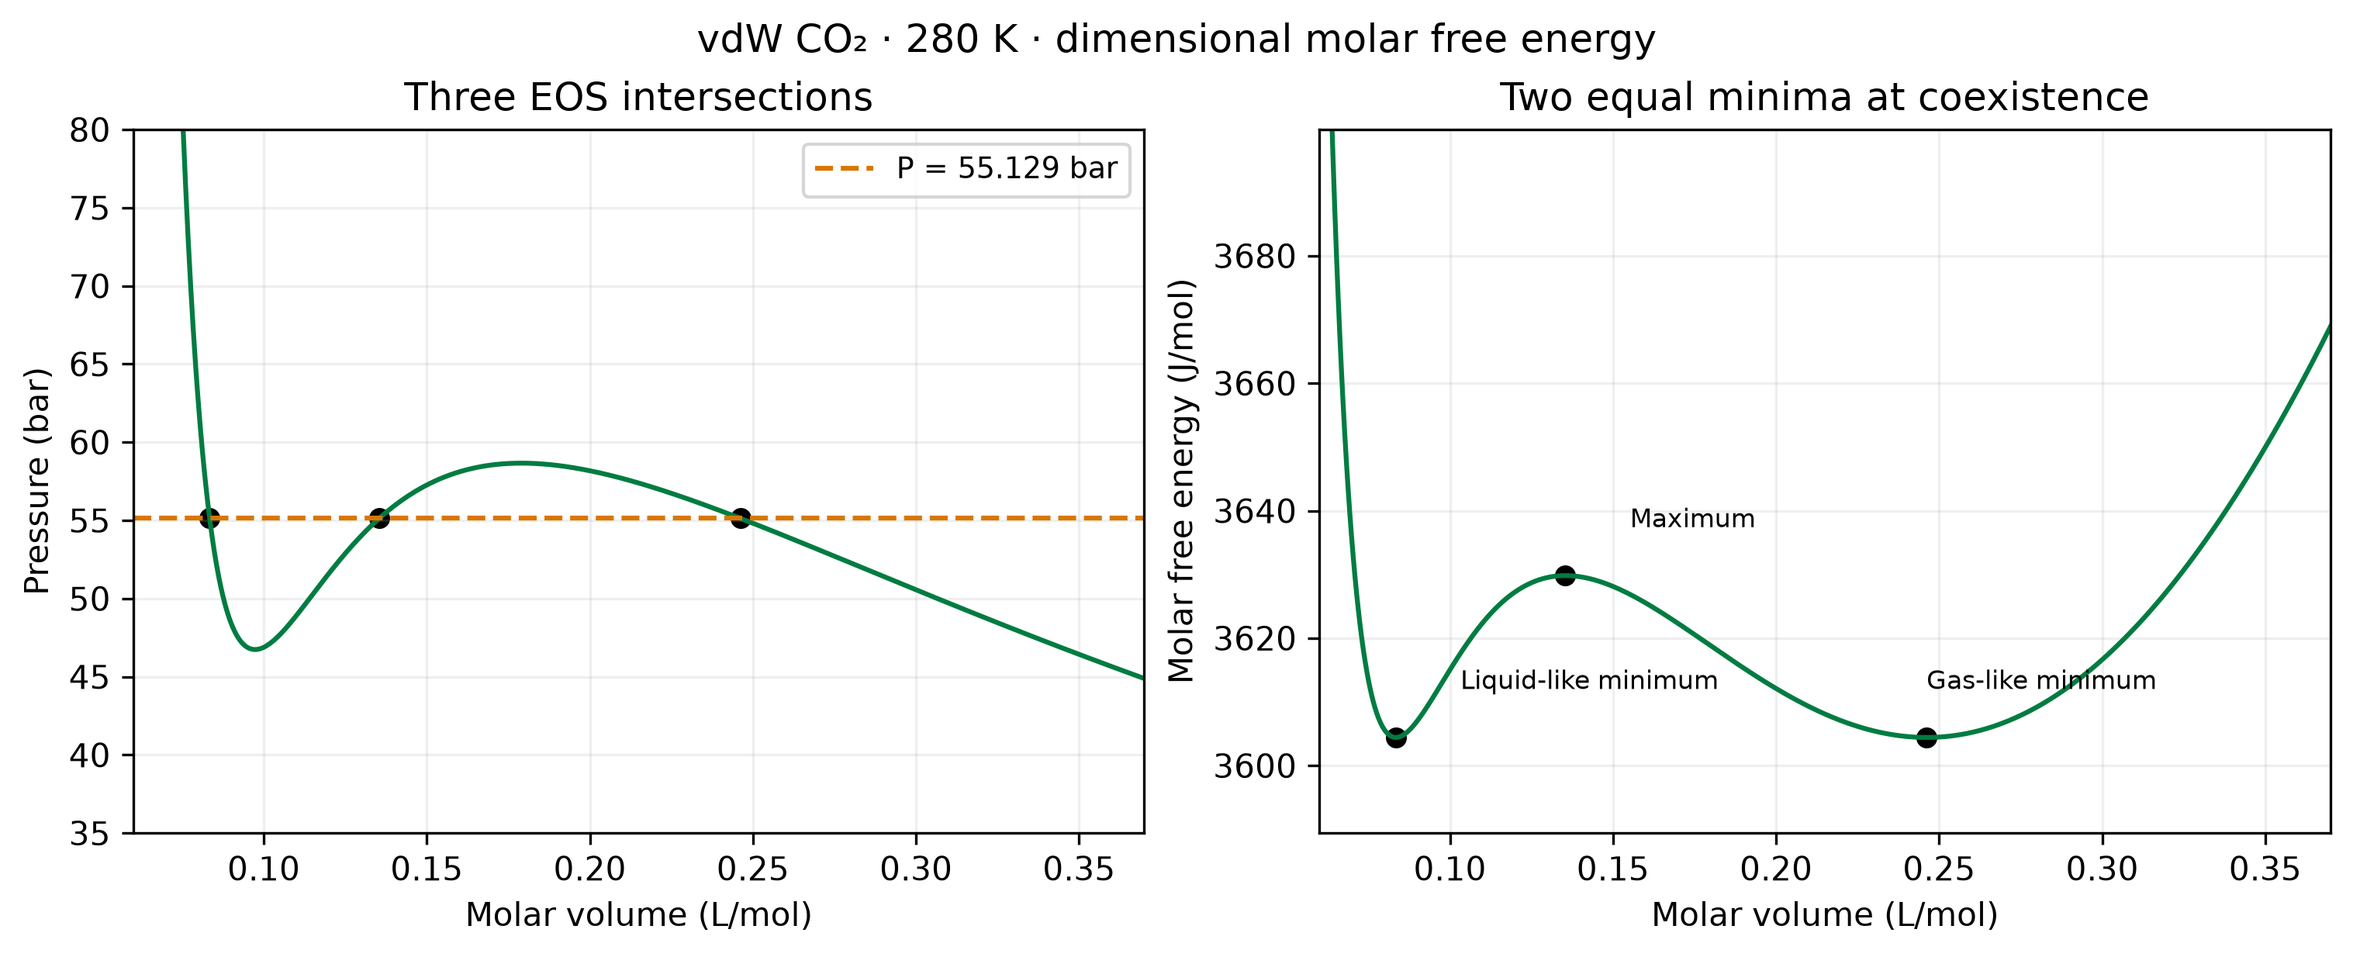
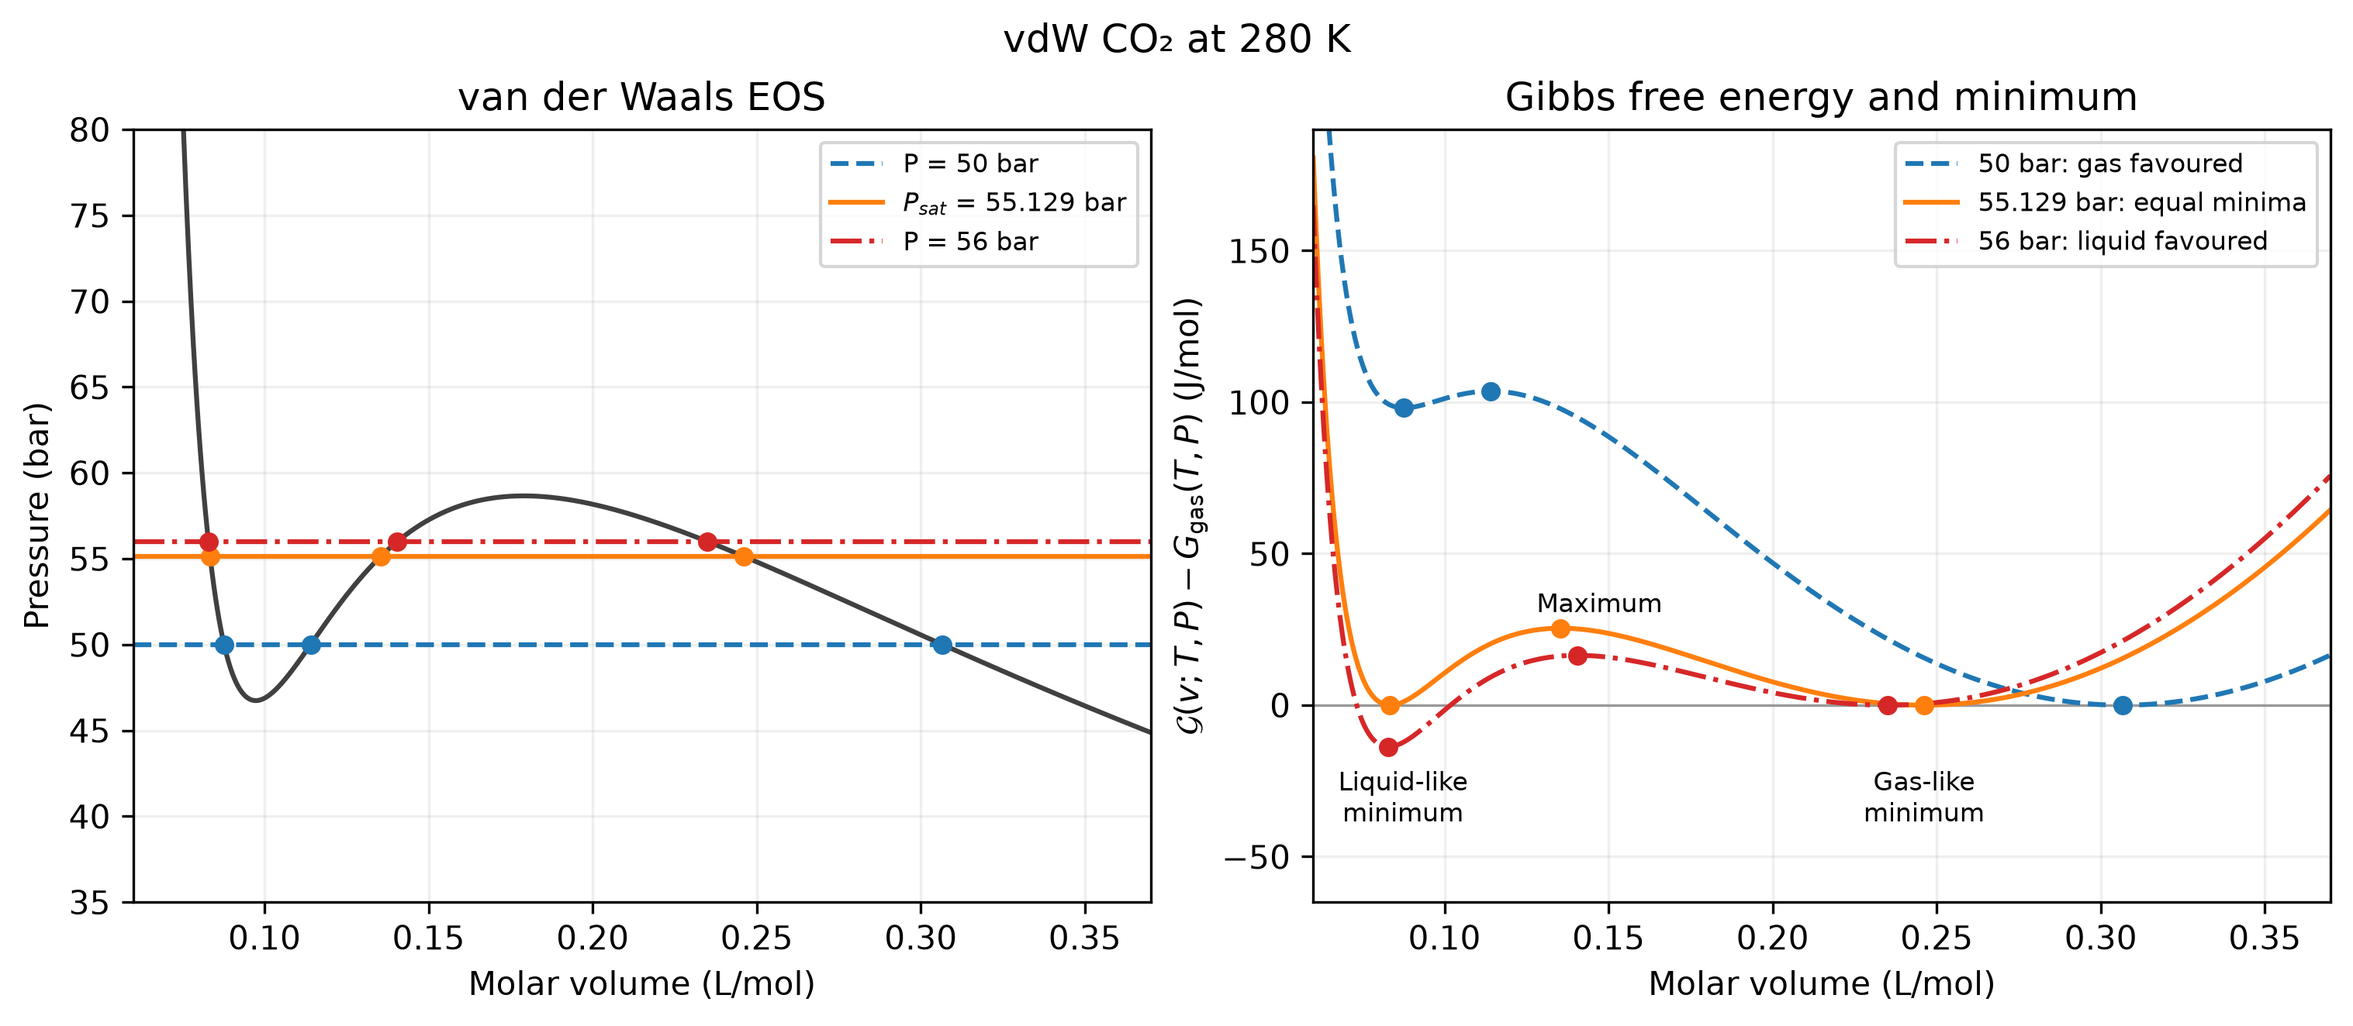
Refine L07 notes, optimization figures, and phase-equilibrium demo

diff --git a/activities/l07_co2_free_energy.edit.py b/activities/l07_co2_free_energy.edit.py
@@ -23,13 +23,7 @@ def course_imports():
 def energy_question(mo):
     mo.md(r"""
     ## L07 · Which CO₂ state has the lower free energy?
-    **Predict:** at 280 K, will raising the pressure favour the smaller-volume or larger-volume minimum?
-
-    Use molar volume $v$ and the dimensional vdW free-energy landscape
-    $\mathcal G(v;T,P)=-RT\ln[(v-b)/v_{
-    m ref}]-a/v+Pv$.
-    Here $a=0.3592$ Pa m⁶ mol⁻², $b=4.267	imes10^{-5}$ m³ mol⁻¹, and $v_{
-    m ref}=10^{-3}$ m³ mol⁻¹. The temperature-only constant is set to zero; it cancels when comparing phases at the same T and P. Plots use L/mol, bar, and J/mol.
+    **Predict:** pick a temperature. Can you move the pressure so that the two free-energy minima are balanced?
     """)
     return
 
@@ -55,6 +49,13 @@ def energy_model(brentq, np):
         # Independent reference: solve the cubic implied by the EOS.
         candidates = np.roots([pressure, -(pressure*0.04267+0.08314462618*temperature), 3.592, -3.592*0.04267])
         return np.sort([z.real for z in candidates if abs(z.imag) < 1e-8 and z.real > 0.04267])
+
+
+    def co2_relative_energy(volume, temperature, pressure):
+        # Use the gas-like minimum as zero in the two-well region.
+        # With one minimum, use that sole minimum as the reference.
+        reference_volume = co2_volumes(temperature, pressure)[-1]
+        return co2_energy(volume, temperature, pressure) - co2_energy(reference_volume, temperature, pressure)
 
 
     def co2_saturation(temperature):
@@ -83,6 +84,8 @@ def energy_model(brentq, np):
         co2_phase_P,
         co2_phase_T,
         co2_pressure,
+        co2_relative_energy,
+        co2_saturation,
         co2_slope,
         co2_volumes,
     )
@@ -91,9 +94,9 @@ def energy_model(brentq, np):
 @app.cell(hide_code=True)
 def energy_controls(mo):
     energy_T = mo.ui.slider(250, 330, step=1, value=280, label="Temperature (K)", show_value=True, debounce=True)
-    energy_P = mo.ui.slider(10, 100, step=0.5, value=50, label="Pressure (bar)", show_value=True, debounce=True)
-    energy_method = mo.ui.dropdown(["Bounded: each well", "Newton: stationary point"], value="Bounded: each well", label="Solver")
-    energy_guess = mo.ui.number(0.05, 3.0, step=0.01, value=0.30, label="Newton starting volume (L/mol)")
+    energy_P = mo.ui.slider(10, 100, step=0.01, value=50, label="Pressure (bar)", show_value=True, debounce=True)
+    energy_method = mo.ui.dropdown(["Bounded: each well", "Newton–Raphson: stationary point"], value="Bounded: each well", label="Solver")
+    energy_guess = mo.ui.number(0.05, 3.0, step=0.01, value=0.30, label="Newton–Raphson starting volume (L/mol)")
     mo.vstack([mo.hstack([energy_T, energy_P], widths="equal"), mo.hstack([energy_method, energy_guess], wrap=True)])
     return energy_P, energy_T, energy_guess, energy_method
 
@@ -125,7 +128,7 @@ def energy_solver(
                 rows.append(dict(volume=result.x, energy=float(result.fun), iterations=int(result.nit), calls=int(result.nfev), success=bool(result.success)))
             message = "Each interval contains one well; the middle stationary volume splits the two-well case."
         else:
-            # Transparent Newton update on dG/dV = 100(P_external − P_EOS).
+            # Transparent Newton–Raphson update on dG/dv = 100(P_external − P_EOS).
             volume = float(guess)
             success = False
             message = "Iteration limit"
@@ -136,7 +139,7 @@ def energy_solver(
                     break
                 trial = volume + (pressure-co2_pressure(volume, temperature))/slope
                 if not np.isfinite(trial) or trial <= 0.04267:
-                    message = "Stopped: Newton step left the physical domain"
+                    message = "Stopped: Newton–Raphson step left the physical domain"
                     break
                 small_step = abs(trial-volume) <= 1e-8
                 volume = trial
@@ -153,17 +156,17 @@ def energy_solver(
 
 
     energy_stationary, energy_rows, energy_message = solve_co2_minima(energy_T.value, energy_P.value, energy_method.value, energy_guess.value)
-    return energy_message, energy_rows, energy_stationary
+    return energy_message, energy_rows, energy_stationary, solve_co2_minima
 
 
 @app.cell(hide_code=True)
 def energy_plot(
     co2_Pc,
     co2_Tc,
-    co2_energy,
     co2_phase_P,
     co2_phase_T,
     co2_pressure,
+    co2_relative_energy,
     energy_P,
     energy_T,
     energy_message,
@@ -174,48 +177,84 @@ def energy_plot(
     plt,
 ):
     def draw_co2_landscape(temperature, pressure, stationary, rows):
-        upper = max(0.65, 1.35*stationary[-1])
+        upper = max(0.35, 1.35*stationary[-1])
         volumes = np.linspace(0.050, upper, 1800)
-        fig, axes = plt.subplots(1, 3, figsize=(12, 3.8), layout="constrained", gridspec_kw={"width_ratios":[1,1.2,1]})
-        axes[0].plot(volumes, co2_pressure(volumes,temperature), color="#007c41")
-        axes[0].axhline(pressure, color="#d87700", ls="--")
-        axes[0].scatter(stationary, np.full(len(stationary), pressure), color="black", s=24)
-        axes[0].set(xlabel="Molar volume (L/mol)", ylabel="Pressure (bar)", ylim=(0,110), title="EOS: possible volumes")
-        axes[1].plot(volumes, co2_energy(volumes,temperature,pressure), color="#007c41")
-        axes[1].scatter(stationary, co2_energy(stationary,temperature,pressure), color="black", s=25, label="Stationary reference")
-        for row in rows:
-            axes[1].scatter([row["volume"]], [row["energy"]], marker="x", color="#d87700", s=65)
-        energy_values = co2_energy(stationary,temperature,pressure)
-        axes[1].set(xlabel="Molar volume (L/mol)", ylabel="Molar free energy (J/mol)", title="Lower minimum is favoured", ylim=(min(energy_values)-30, max(energy_values)+250))
-        axes[1].legend(fontsize=7)
-        axes[2].plot(co2_phase_T, co2_phase_P, color="#007c41", label="Equal-minimum pressure")
-        axes[2].scatter([co2_Tc], [co2_Pc], color="black", label="vdW critical point", s=25)
-        axes[2].scatter([temperature], [pressure], color="#d87700", s=65, label="Your T, P")
-        axes[2].set(xlabel="Temperature (K)", ylabel="Pressure (bar)", xlim=(250,330), ylim=(10,100), title="vdW CO₂ liquid–gas boundary")
-        axes[2].legend(fontsize=7)
-        for ax in axes:
+        fig = plt.figure(figsize=(10, 7.8), layout="constrained")
+        grid = fig.add_gridspec(2, 2, height_ratios=[1, 1.1])
+        eos = fig.add_subplot(grid[0, 0])
+        gibbs = fig.add_subplot(grid[0, 1])
+        phase = fig.add_subplot(grid[1, :])
+
+        eos.plot(volumes, co2_pressure(volumes, temperature), color="#1f77b4")
+        eos.axhline(pressure, color="0.3", ls="--", label=f"P = {pressure:.2f} bar")
+        eos.scatter(stationary, np.full(len(stationary), pressure), color="black", s=24)
+        eos.set(xlabel="Molar volume (L/mol)", ylabel="Pressure (bar)",
+                xlim=(0.050, upper), ylim=(0, 110), title="van der Waals EOS")
+        eos.legend(fontsize=8)
+
+        energy_values = co2_relative_energy(stationary, temperature, pressure)
+        gibbs.plot(volumes, co2_relative_energy(volumes, temperature, pressure), color="#ff7f0e")
+        gibbs.axhline(0, color="0.6", lw=0.8)
+        gibbs.scatter(stationary, energy_values, color="black", s=25, label="Stationary reference")
+        for index, row in enumerate(rows):
+            gibbs.scatter(row["volume"], co2_relative_energy(row["volume"], temperature, pressure),
+                          marker="x", color="#d62728", s=65, zorder=4,
+                          label="Solver result" if index == 0 else None)
+        reference = r"G_{\mathrm{gas}}" if len(stationary) == 3 else r"G_{\mathrm{min}}"
+        gibbs.set(xlabel="Molar volume (L/mol)",
+                  ylabel=rf"$\mathcal{{G}}(v;T,P)-{reference}(T,P)$ (J/mol)",
+                  xlim=(0.050, upper), ylim=(min(energy_values)-30, max(energy_values)+80),
+                  title="Gibbs free energy and minimum")
+        gibbs.legend(fontsize=8)
+
+        boundary_T = np.append(co2_phase_T, co2_Tc)
+        boundary_P = np.append(co2_phase_P, co2_Pc)
+        phase.fill_between(boundary_T, 10, boundary_P, color="#1f77b4", alpha=0.14)
+        phase.fill_between(boundary_T, boundary_P, 100, color="#ff7f0e", alpha=0.14)
+        phase.fill_between([co2_Tc, 330], 10, co2_Pc, color="#1f77b4", alpha=0.14)
+        phase.fill_between([co2_Tc, 330], co2_Pc, 100, color="#d62728", alpha=0.12)
+        phase.plot(boundary_T, boundary_P, color="#d62728", lw=2, label="Liquid–gas coexistence")
+        # Dotted guides mark the supercritical quadrant, not phase boundaries.
+        phase.plot([co2_Tc, co2_Tc, 330], [100, co2_Pc, co2_Pc], color="0.5", ls=":", lw=1)
+        phase.scatter(co2_Tc, co2_Pc, color="black", label="vdW critical point", s=30, zorder=4)
+        phase.scatter(temperature, pressure, color="white", edgecolor="black", marker="*",
+                      s=170, linewidth=1.2, label="Your T, P", zorder=5)
+        phase.text(261, 65, "Liquid", color="#a84b00", fontsize=12, ha="center")
+        phase.text(291, 23, "Gas", color="#165783", fontsize=12, ha="center")
+        phase.text(315, 87, "Supercritical\n$T>T_c$, $P>P_c$", color="#a31d1e", fontsize=11, ha="center")
+        phase.set(xlabel="Temperature (K)", ylabel="Pressure (bar)",
+                  xlim=(250, 330), ylim=(10, 100), title="Phase diagram")
+        phase.legend(fontsize=8, loc="upper left")
+        for ax in (eos, gibbs, phase):
             ax.grid(alpha=0.2)
+        fig.suptitle(f"vdW CO₂ at {temperature:g} K")
         return fig
 
 
     energy_figure = draw_co2_landscape(energy_T.value, energy_P.value, energy_stationary, energy_rows)
     energy_report = "\n".join(
-        f"- V = **{r['volume']:.7f} L/mol**, G = **{r['energy']:.3f} J/mol**; {r['kind']}; "
-        f"solver success: **{r['success']}**; pressure residual **{r['pressure_residual']:+.2g} bar**; **{r['iterations']} iterations**."
-        for r in energy_rows)
+        f"- v = **{row['volume']:.7f} L/mol**, relative G = **{co2_relative_energy(row['volume'], energy_T.value, energy_P.value):.3f} J/mol**; {row['kind']}; "
+        f"solver success: **{row['success']}**; pressure residual **{row['pressure_residual']:+.2g} bar**; **{row['iterations']} iterations**."
+        for row in energy_rows)
     if len(energy_stationary) == 3:
-        energy_difference = float(co2_energy(energy_stationary[0],energy_T.value,energy_P.value)-co2_energy(energy_stationary[-1],energy_T.value,energy_P.value))
-        energy_interpretation = f"G(small-volume) − G(large-volume) = **{energy_difference:+.3f} J/mol**. " + ("The small-volume minimum is lower." if energy_difference < 0 else "The large-volume minimum is lower.")
+        energy_difference = float(co2_relative_energy(energy_stationary[0], energy_T.value, energy_P.value))
+        if abs(energy_difference) <= 0.1:
+            energy_preference = "The minima are balanced to within 0.1 J/mol."
+        elif energy_difference < 0:
+            energy_preference = "The small-volume minimum is lower."
+        else:
+            energy_preference = "The large-volume minimum is lower."
+        energy_interpretation = f"G(liquid) − G(gas) = **{energy_difference:+.3f} J/mol**. " + energy_preference
     else:
-        energy_interpretation = "There is one stationary volume at these conditions. A single minimum can occur below Tc too, outside the three-root pressure range."
+        energy_interpretation = "There is one minimum, used as the energy zero. A single minimum can occur below Tc too, outside the three-root pressure range."
     mo.vstack([
         energy_figure,
         mo.md(energy_report + "\n\n" + energy_interpretation + "\n\n" + energy_message),
         mo.accordion({"What should I check?": mo.md(
-            "At **280 K**, compare **50** and **56 bar**. Try Newton at **0.11 L/mol**: can a successful root solve find a maximum? Raise T to **310 K** and vary P. Compare the two minima only at the same T and P. The plotted boundary is calculated from this vdW CO₂ model; quantitative comparison with measured CO₂ needs validation.\n\n"
-            "A minimum with higher free energy is metastable in the homogeneous model. The intervening maximum signals an unstable volume; predicting a nucleation rate also requires interfacial physics. Newton evaluates pressure and its derivative each iteration; the bounded solver evaluates free energy, so iteration counts measure different work." )}),
+            "The gas-like minimum sets the energy zero when two wells exist, just as in the lecture figure. At **280 K**, compare **50** and **56 bar**. Try Newton–Raphson at **0.11 L/mol**: can a successful root solve find a maximum? Raise T to **310 K** and vary P. Compare the two minima only at the same T and P.\n\n"
+            "A minimum with higher free energy is metastable in the homogeneous model. The intervening maximum signals an unstable volume; predicting a nucleation rate also requires interfacial physics. Newton–Raphson evaluates pressure and its derivative each iteration; the bounded solver evaluates free energy, so iteration counts measure different work." )}),
     ])
-    return
+    return draw_co2_landscape, energy_figure
 
 
 if __name__ == "__main__":

diff --git a/scripts/l06_l07_figures.py b/scripts/l06_l07_figures.py
@@ -235,6 +235,80 @@ def save_fixed_point_figure():
     save(fig, "L06-fixed-point.png")
 
 
+def save_vdw_energy_figure(energy):
+    """Keep the EOS connection and show pressure selecting the deeper well."""
+    temperature = 280.0
+    saturation = energy["co2_saturation"](temperature)
+    vv = np.linspace(0.06, 0.37, 1200)
+    fig, axes = plt.subplots(1, 2, figsize=(10, 4.3), layout="constrained")
+    axes[0].plot(vv, energy["co2_pressure"](vv, temperature), color="0.25")
+    axes[0].set(ylabel="Pressure (bar)", ylim=(35, 80), title="van der Waals EOS")
+
+    axes[1].axhline(0, color="0.6", lw=0.8)
+    for pressure, colour, style, label in [
+        (50.0, "#1f77b4", "--", "50 bar: gas favoured"),
+        (saturation, "#ff7f0e", "-", f"{saturation:.3f} bar: equal minima"),
+        (56.0, "#d62728", "-.", "56 bar: liquid favoured"),
+    ]:
+        volumes = energy["co2_volumes"](temperature, pressure)
+        pressure_label = f"$P_{{sat}}$ = {pressure:.3f} bar" if pressure == saturation else f"P = {pressure:g} bar"
+        axes[0].axhline(pressure, color=colour, ls=style, label=pressure_label)
+        axes[0].scatter(volumes, np.full(len(volumes), pressure), color=colour, s=25, zorder=3)
+        relative_energy = energy["co2_relative_energy"](vv, temperature, pressure)
+        values = energy["co2_relative_energy"](volumes, temperature, pressure)
+        axes[1].plot(vv, relative_energy, color=colour, ls=style, label=label)
+        axes[1].scatter(volumes, values, color=colour, s=25, zorder=3)
+        if pressure == saturation:
+            for volume, value, name, offset in zip(
+                volumes, values,
+                ["Liquid-like\nminimum", "Maximum", "Gas-like\nminimum"],
+                [(4, -36), (12, 5), (0, -36)],
+            ):
+                axes[1].annotate(name, (volume, value), xytext=offset,
+                                 textcoords="offset points", fontsize=8, ha="center")
+    axes[1].set(ylabel=r"$\mathcal{G}(v;T,P)-G_{\mathrm{gas}}(T,P)$ (J/mol)",
+                ylim=(-65, 190), title="Gibbs free energy and minimum")
+    axes[0].legend(fontsize=8, loc="upper right")
+    axes[1].legend(fontsize=8, loc="upper right")
+    for ax in axes:
+        ax.set(xlabel="Molar volume (L/mol)", xlim=(0.06, 0.37))
+        ax.grid(alpha=0.2)
+    fig.suptitle("vdW CO₂ at 280 K")
+    save(fig, "L07-vdw-energy.png")
+
+
+def save_golden_section_figure():
+    R = (np.sqrt(5) - 1) / 2
+    f = lambda x: (x - 0.68)**2 + 0.3
+    fig, axes = plt.subplots(1, 3, figsize=(12, 3.6), layout="constrained")
+    a, b = 0.0, 1.0
+    reused = None
+    titles = ["Step 1: compare two values", "Step 2: reuse old x₂", "Step 3: reuse old x₁"]
+    for ax, title in zip(axes, titles):
+        x1, x2 = b - R * (b - a), a + R * (b - a)
+        xx = np.linspace(0, 1, 500)
+        ax.plot(xx, f(xx), color="#007c41")
+        ax.axvspan(a, b, alpha=0.12, color="#007c41")
+        for x in (x1, x2):
+            is_reused = reused is not None and np.isclose(x, reused)
+            ax.scatter(x, f(x), color="#1f77b4" if is_reused else "#ff7f0e",
+                       s=40, zorder=3, label="Reused value" if is_reused else None)
+        for x, label in [(a, "a"), (x1, "x₁"), (x2, "x₂"), (b, "b")]:
+            ax.axvline(x, color="0.5", lw=0.7, ls=":")
+            ax.text(x, 0.27, label, ha="center")
+        comparison = "$f(x_1)>f(x_2)$" if f(x1) > f(x2) else "$f(x_1)<f(x_2)$"
+        ax.text(0.04, 0.94, comparison, transform=ax.transAxes, va="top")
+        ax.set(xlabel="$x$", ylabel="$f(x)$", title=title, ylim=(0.24, 0.82))
+        if reused is not None:
+            ax.legend(fontsize=8, loc="upper right")
+        if f(x1) > f(x2):
+            a, reused = x1, x2
+        else:
+            b, reused = x2, x1
+    fig.suptitle("Golden section search")
+    save(fig, "L07-golden-section.png")
+
+
 def main():
     roots = notebook_definitions("l06_open_methods.edit.py")
     save_regula_falsi_secant_animation()
@@ -244,44 +318,10 @@ def main():
     save_fixed_point_figure()
 
     energy = notebook_definitions("l07_co2_free_energy.edit.py")
-    temperature = 280.0
-    pressure = energy["co2_saturation"](temperature)
-    stationary = energy["co2_volumes"](temperature, pressure)
-    vv = np.linspace(0.06, 0.37, 1200)
-    fig, axes = plt.subplots(1, 2, figsize=(10, 4), layout="constrained")
-    axes[0].plot(vv, energy["co2_pressure"](vv,temperature), color="#007c41")
-    axes[0].axhline(pressure, ls="--", color="#d87700", label=f"P = {pressure:.3f} bar")
-    axes[0].scatter(stationary, np.full(3, pressure), color="black", s=30)
-    axes[0].set(ylabel="Pressure (bar)", ylim=(35,80), title="Three EOS intersections")
-    axes[0].legend(fontsize=9)
-    gg = energy["co2_energy"](stationary,temperature,pressure)
-    axes[1].plot(vv, energy["co2_energy"](vv,temperature,pressure), color="#007c41")
-    axes[1].scatter(stationary, gg, color="black", s=30)
-    for v, value, name, offset in zip(stationary, gg, ["Liquid-like minimum", "Maximum", "Gas-like minimum"], [(20,15),(20,15),(0,15)]):
-        axes[1].annotate(name, (v,value), xytext=offset, textcoords="offset points", fontsize=8)
-    axes[1].set(ylabel="Molar free energy (J/mol)", ylim=(min(gg)-15, max(gg)+70), title="Two equal minima at coexistence")
-    for ax in axes:
-        ax.set(xlabel="Molar volume (L/mol)", xlim=(0.06,0.37))
-        ax.grid(alpha=0.2)
-    fig.suptitle("vdW CO₂ · 280 K · dimensional molar free energy")
-    save(fig, "L07-vdw-energy.png")
+    save_vdw_energy_figure(energy)
     save(energy["energy_figure"], "L07-co2-demo.png")
 
-    r = (np.sqrt(5)-1)/2
-    f = lambda x: (x-0.68)**2+0.3
-    fig, axes = plt.subplots(1, 2, figsize=(10, 3.3), layout="constrained")
-    intervals = [(0.0,1.0),(1-r,1.0)]
-    for ax, (a,b), title in zip(axes, intervals, ["Compare: f(x₁) > f(x₂)", "Keep the right interval; reuse x₂"]):
-        x1, x2 = b-r*(b-a), a+r*(b-a)
-        xx = np.linspace(0,1,500)
-        ax.plot(xx, f(xx), color="#007c41")
-        ax.axvspan(a,b, alpha=0.12, color="#007c41")
-        ax.scatter([x1,x2], [f(x1),f(x2)], color="#d87700", zorder=3)
-        for x, label in [(a,"a"),(x1,"x₁"),(x2,"x₂"),(b,"b")]:
-            ax.axvline(x,color="0.5",lw=0.7,ls=":")
-            ax.text(x,0.27,label,ha="center")
-        ax.set(xlabel="x", ylabel="f(x)", title=title, ylim=(0.24,0.82))
-    save(fig, "L07-golden-section.png")
+    save_golden_section_figure()
     plt.close("all")
 
 
